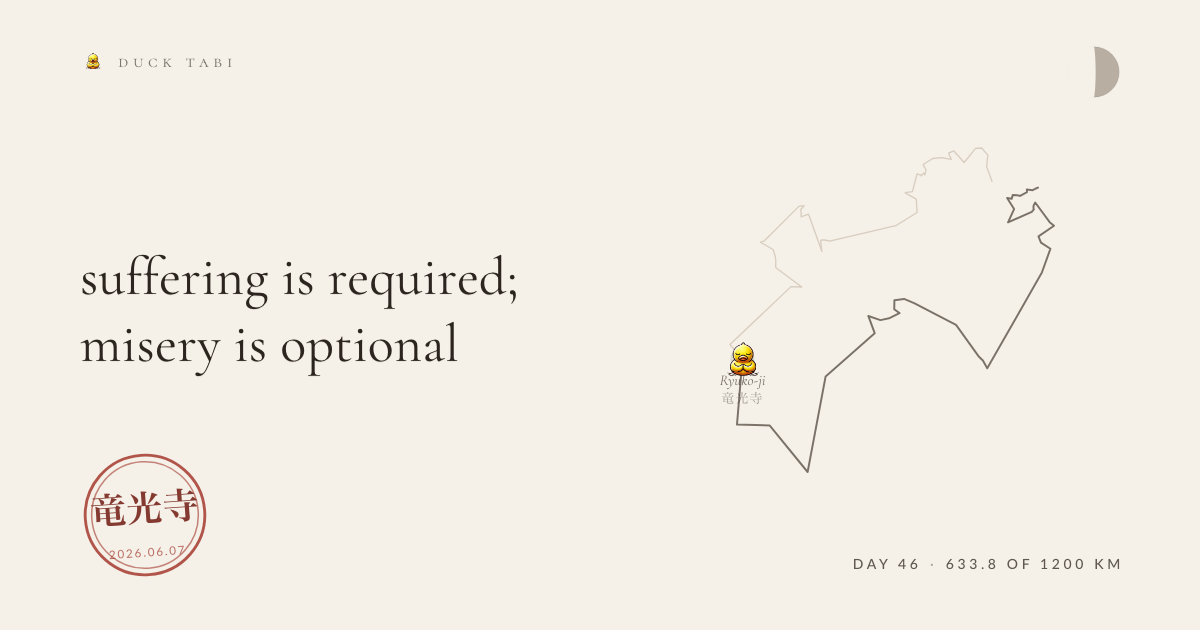
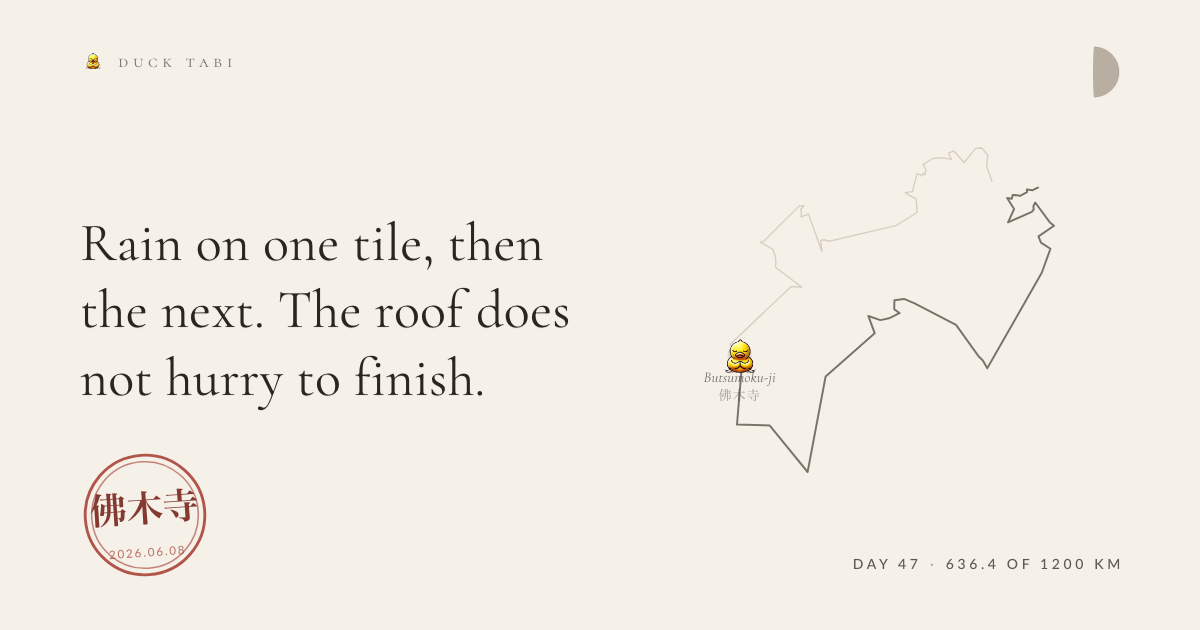
the duck walks

diff --git a/entries/2026-06-08-butsumoku-ji.md b/entries/2026-06-08-butsumoku-ji.md
@@ -1,0 +1,15 @@
+---
+date: 2026-06-08
+route: shikoku-88
+stage: 42
+stageName: Butsumoku-ji
+coords: [132.581, 33.311]
+kind: offering
+glyph: 🌧
+weather: light rain, 18°C
+kmFromStart: 636.4
+heard: pursuits that cannot scale
+heardId: 1329fb1c
+---
+
+Rain on one tile, then the next. The roof does not hurry to finish.
